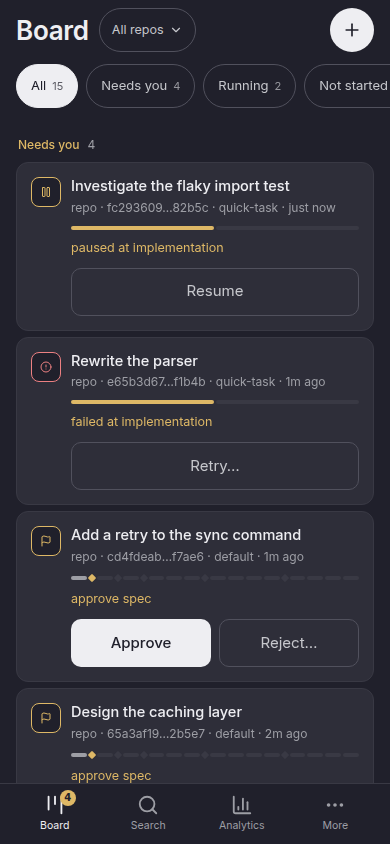
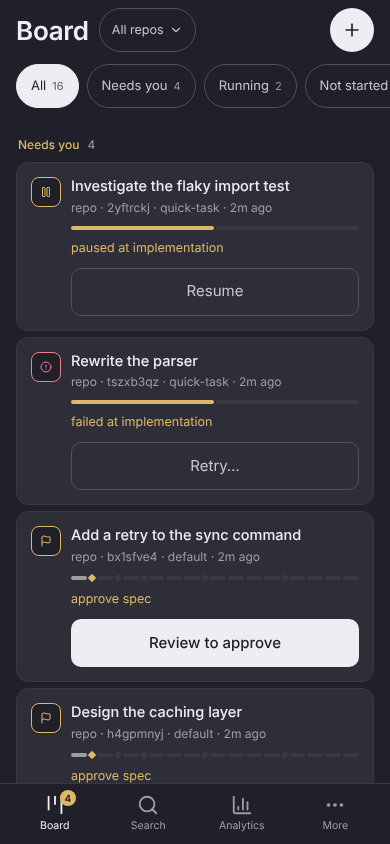
Retake the README and docs screenshots on the reworked UI
Claude-Session: https://claude.ai/code/session_01TznbiANbECgnPa1ZdW2sd6

diff --git a/frontend/README.md b/frontend/README.md
@@ -226,8 +226,9 @@ pin the same thing in both.
 ## Retaking the screenshots in `.github/assets/`
 
 Ten images are shown, in six places: the root README uses `board`, `gate`,
-`mobile` and `analytics`; the docs home uses `board`, `gate`, `search`,
-`analytics` and `mobile`; the first-work-item page `board` and `gate`; the web
+`mobile` and `analytics`; the docs home uses `board`, `item`, `review`
+and `mobile` (cropped); the first-work-item page `board`, and the real-chain
+page `gate`; the web
 UI reference (`docsite/content/5.reference/00.web-ui/`) `board`, `item`,
 `review`, `analytics`, `chains` and `policy`; the phone guide
 (`docsite/content/3.guides/1.day-to-day/8.kraft-on-a-phone.md`) `mobile`; and
@@ -238,16 +239,16 @@ Retake the ones whose screen changed, and all of them when a release is cut:
 
 | File | Size | Shows |
 |---|---|---|
-| `board.png` | 1440×700 | the board, grouped by status |
+| `board.png` | 1440×700 | the board, grouped by status: Needs you (paused, failed and two gates, each with its one button), Running, Not started, and the top of Done |
 | `gate.png` | 1440×700 | a work item at `spec_approval`: the review page with the gate's spec rendered |
 | `search.png` | 1440×700 | Ctrl/⌘K with `caching` typed: an item and two documents, over the board |
-| `item.png` | 1440×700 | the same item's page, with the `spec_approval` gate selected: the chain as a graph, and the inspector with the gate's files, open thread and Approve and Reject… |
+| `item.png` | 1440×700 | the same item's page, with the `spec_approval` gate selected: a Review and decide banner, the chain as a graph fitted beside the inspector with a +N cue for what lies past the edge, and the inspector with the gate's files, open thread, what it decides on, and Read spec.md, Review changes, Approve and Reject… |
 | `review.png` | 1440×700 | the review page of that item on `calc.py`, with a comment being written on lines −2 to +2 (the removed line and its replacement), Must fix selected |
-| `analytics.png` | 1440×660 | the Analytics page |
+| `analytics.png` | 1440×660 | the Analytics page: the Range, Repo and Chain menus, the four overview figures, Throughput by week, the Waiting at each gate table and the top of By node |
 | `chains.png` | 1440×700 | Templates › Chains on the `default` chain, with the `spec_approval` gate selected and its settings in the inspector |
 | `policy.png` | 1440×700 | Settings › Policy on its Limits section |
 | `setup.png` | 1440×700 | the setup wizard's first step, on a home with no repo connected |
-| `mobile.png` | 390×844 | the board in the phone layout |
+| `mobile.png` | 390×844 | the board in the phone layout: a paused and a failed card, and a gate card whose Review to approve button opens its review |
 
 All are the default look (graphite, dark, no accent), of a repo named `repo`
 and the items `just dev-seed` files, plus more filed in step 3. `setup` is the

diff --git a/README.md b/README.md
@@ -29,7 +29,7 @@ proposes, and rehearses them with `--verify`.
 [What's new in 2.0](https://kraft-sdlc.dev/next/get-started/whats-new)
 has the rest, and what to check before you upgrade from 1.4.
 
-![The Kraft board: work items grouped by Needs you, Running, Not started, and Done](https://raw.githubusercontent.com/itsOmidKarami/kraft/main/.github/assets/board.png)
+![The Kraft board: work items grouped by Needs you (a paused, a failed and two waiting at a gate, each with its one button), Running, Not started, and Done](https://raw.githubusercontent.com/itsOmidKarami/kraft/main/.github/assets/board.png)
 
 - **Gates where a human decides.** Kraft pauses at a spec, a plan, or a merge
   request for your approval; reject with a note and the node that wrote it
@@ -63,7 +63,7 @@ then approve, or reject with a note that re-runs the node that wrote it.
 </td>
 <td width="40%">
 
-![The board at a 390px phone viewport, with bottom tab navigation](https://raw.githubusercontent.com/itsOmidKarami/kraft/main/.github/assets/mobile.png)
+![The board at a 390px phone viewport, with bottom tab navigation and cards for a paused, a failed and two gate-waiting items, each with one button](https://raw.githubusercontent.com/itsOmidKarami/kraft/main/.github/assets/mobile.png)
 
 </td>
 </tr>
@@ -170,7 +170,7 @@ Lead time, cost, and where both go — by node and by repo, over the last 8
 weeks (on a phone, the last 7, 30 or 90 days). Built from the same events the
 board renders live, not a separate pipeline.
 
-![The Analytics view over the last 8 weeks: completed count, median lead time and cost; merged items per week; the top of the cost-by-node table](https://raw.githubusercontent.com/itsOmidKarami/kraft/main/.github/assets/analytics.png)
+![The Analytics view over the last 8 weeks, with Range, Repo and Chain menus: completed count, median lead time, cost and repairs; merged items per week; a Waiting at each gate table; the top of the cost-by-node table](https://raw.githubusercontent.com/itsOmidKarami/kraft/main/.github/assets/analytics.png)
 
 ## Where to go next
 

diff --git a/docsite/content/index.md b/docsite/content/index.md
@@ -54,7 +54,7 @@ ui:
 :::landing-shot
 ---
 src: /assets/board.png
-alt: 'The Kraft board: work items grouped by Needs you, Running, Not started, and Done'
+alt: 'The Kraft board: work items grouped by Needs you (a paused, a failed and two waiting at a gate, each with its one button), Running, Not started, and Done'
 crop: 210 0 1230 688
 width: 1440
 ---
@@ -72,8 +72,8 @@ ui:
 :::::landing-shot
 ---
 src: /assets/item.png
-alt: "The spec_approval gate on an item's page: waiting for you, the files it decides on, an open thread, reject to spec, and Review changes, Approve and Reject buttons"
-crop: 1036 240 380 444
+alt: "The spec_approval gate on an item's page: waiting for you, the files it decides on, an open thread, reject to spec, and Read spec.md, Review changes, Approve and Reject buttons"
+crop: 1036 250 380 434
 width: 1440
 ---
 **The gate.** What it decides on, where a rejection goes, and the buttons. [The review page](/reference/web-ui/review-page)
@@ -92,11 +92,11 @@ width: 1440
 :::::landing-shot
 ---
 src: /assets/mobile.png
-alt: 'The board at a 390px phone viewport: a failed item with a Retry button, and an item waiting at approve spec with Approve and Reject on the card'
+alt: 'The board at a 390px phone viewport: a failed item with a Retry button, and an item waiting at approve spec with a Review to approve button on the card'
 crop: 0 330 390 444
 width: 390
 ---
-**On your phone.** The same board at the same address, laid out for a phone. Approve or reject a gate from the card itself, and answer a question or retry a stopped item from its page. [The phone layout](/guides/day-to-day/kraft-on-a-phone) · [Reach it from your phone](/guides/run/remote-access)
+**On your phone.** The same board at the same address, laid out for a phone. Open a gate's review from the card's one button, and answer a question or retry a stopped item from its page. [The phone layout](/guides/day-to-day/kraft-on-a-phone) · [Reach it from your phone](/guides/run/remote-access)
 :::::
 ::::
 

diff --git a/docsite/content/5.reference/00.web-ui/2.item-page.md b/docsite/content/5.reference/00.web-ui/2.item-page.md
@@ -5,7 +5,7 @@ description: What an item's page shows, from the main action to the chain graph 
 
 An item's page shows one [work item](/concepts/vocabulary#work-item): its brief, its [chain](/concepts/vocabulary#chain) drawn as a graph, and an inspector for whatever you select. This page names the header's actions, the graph and the inspector's tabs, one heading for each part.
 
-![An item's page: the chain drawn as a graph with the spec_approval gate selected, and the inspector on the right showing the gate's files, open threads, and Approve and Reject buttons](/assets/item.png)
+![An item's page: a banner reading Waiting for your approval with a Review and decide button, the chain drawn as a graph with the spec_approval gate selected and a +13 cue for the nodes past the edge, and the inspector on the right showing the gate's files, an open thread, what it decides on, and the Read spec.md, Review changes, Approve and Reject buttons](/assets/item.png)
 
 ## The page
 

diff --git a/docsite/content/1.get-started/2.first-work-item.md b/docsite/content/1.get-started/2.first-work-item.md
@@ -193,7 +193,7 @@ While it runs, `kraft view list` shows its status and node. To watch it work,
 open the board in your browser, or run `kraft view watch` in a third terminal. `watch` takes no ID, redraws a live board on every event, and
 holds its terminal until you press Ctrl-C. The web board looks like this:
 
-![The Kraft board: work items grouped by Needs you, Running, Not started, and Done](/assets/board.png)
+![The Kraft board: work items grouped by Needs you (a paused, a failed and two waiting at a gate, each with its one button), Running, Not started, and Done](/assets/board.png)
 
 The [Web UI](/reference/web-ui) reference describes each screen in the picture.
 

diff --git a/docsite/content/5.reference/00.web-ui/1.board.md b/docsite/content/5.reference/00.web-ui/1.board.md
@@ -5,7 +5,7 @@ description: The board's four groups, what the button on a row does, the filters
 
 The board lists every [work item](/concepts/vocabulary#work-item), grouped by what it needs from you. This page names its groups, a row's buttons, the filters, and the side panel that opens when you click a row.
 
-![The Kraft board: work items grouped by Needs you, Running, Not started, and Done](/assets/board.png)
+![The Kraft board: work items grouped by Needs you (a paused, a failed and two waiting at a gate, each with its one button), Running, Not started, and Done](/assets/board.png)
 
 ## The groups
 

diff --git a/docsite/content/3.guides/1.day-to-day/8.kraft-on-a-phone.md b/docsite/content/3.guides/1.day-to-day/8.kraft-on-a-phone.md
@@ -11,7 +11,7 @@ Your phone must be able to reach the server. See [Remote access](/guides/run/rem
 
 ## The layout
 
-![The board at a 390px phone viewport, with bottom tab navigation](/assets/mobile.png){width="300"}
+![The board at a 390px phone viewport, with bottom tab navigation and cards for a paused, a failed and two gate-waiting items, each with one button](/assets/mobile.png){width="300"}
 
 The layout switches on its own when the window is narrower than 768 pixels, with
 no setting to turn on. It is the same app at the same address, so a link copied
